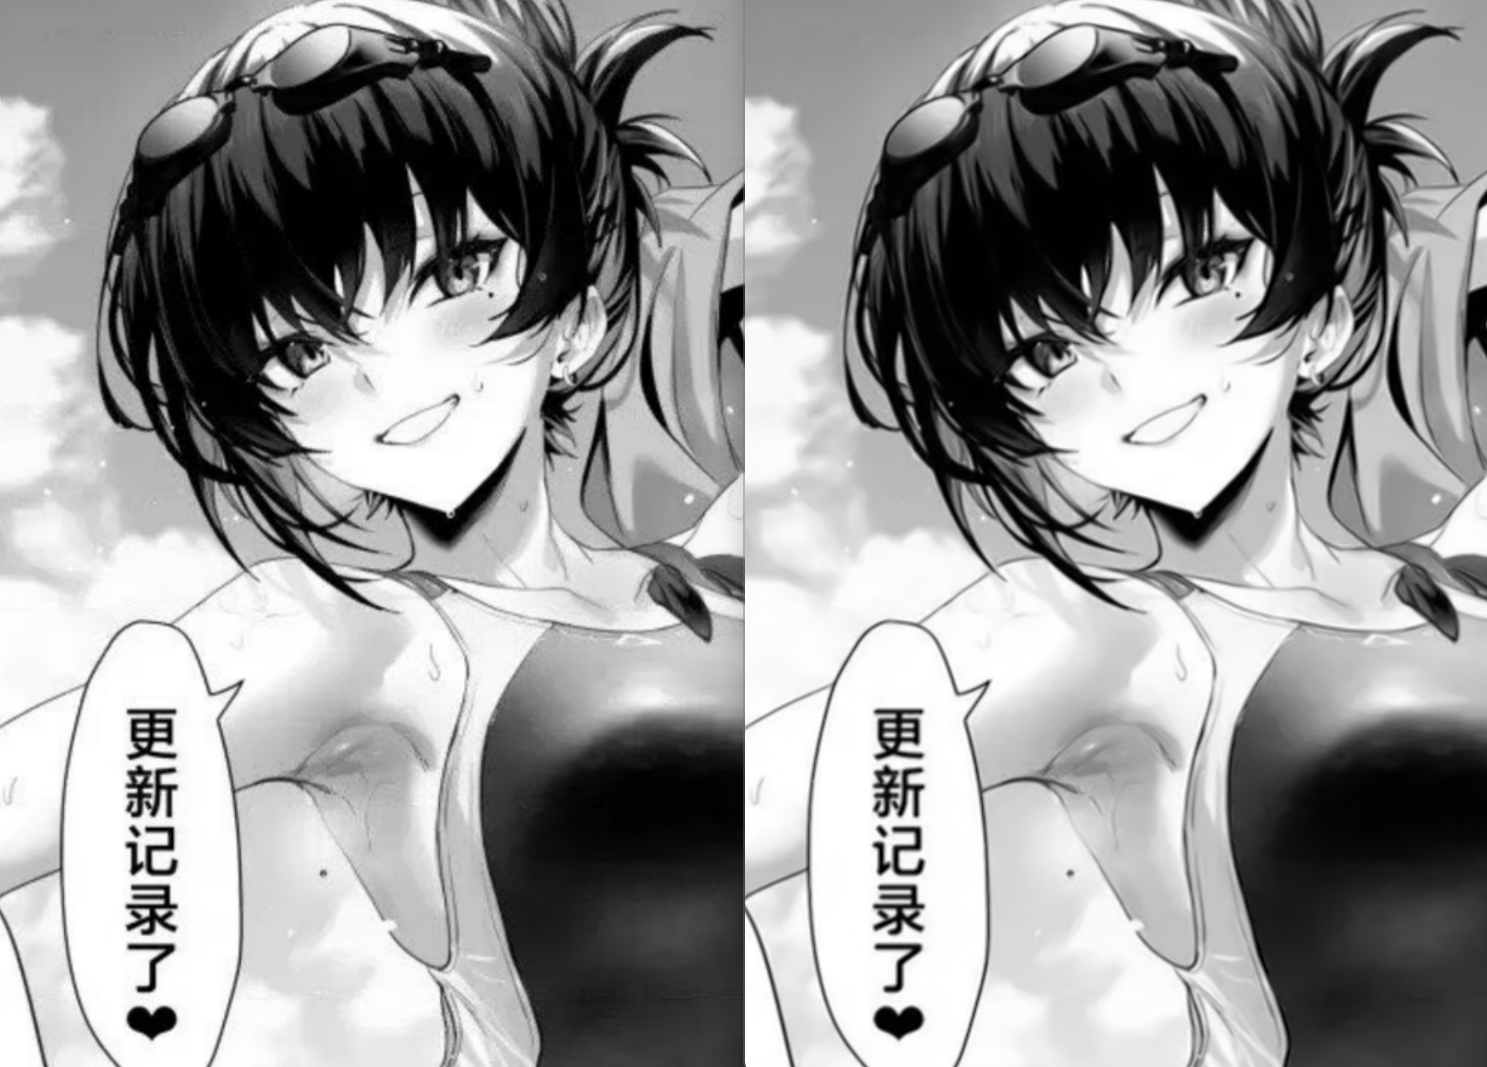
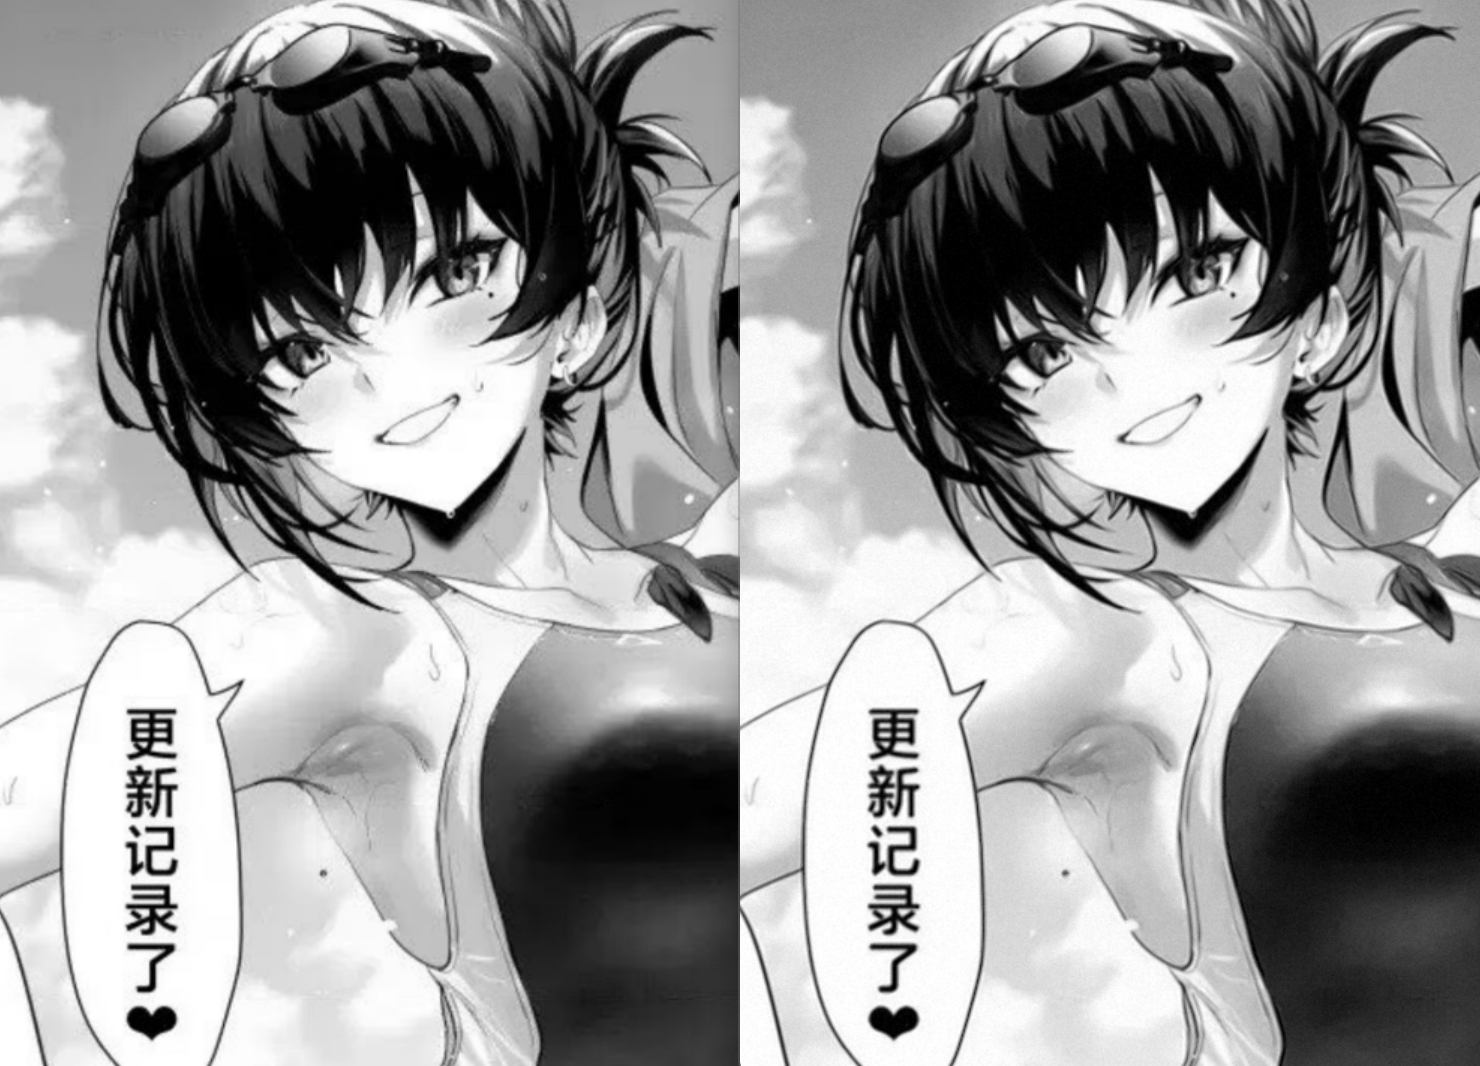
feat: 新增 --grain 胶片颗粒滤镜
- 移植 VapourSynth-AddGrain，支持噪声方差 0~100
- 更新 README 示例与参数说明，推荐在修复流程末尾添加
- 更新 build.py 源文件列表并替换预览图

diff --git a/src/filters/grain.cpp b/src/filters/grain.cpp
@@ -1,0 +1,97 @@
+#include "grain.h"
+
+#include <algorithm>
+#include <cmath>
+#include <cstring>
+
+// Scalar port of HolyWu VapourSynth-AddGrain (`git clone ...AddGrain`, GPLv3;
+// original by Tom Barry / Firesledge / LaTo INV., VapourSynth port by HolyWu):
+//
+//   fastUniformRandL:  idum = 1664525 * idum + 1013904223          (32-bit)
+//   fastUniformRandF:  bitcast(0x3f800000 | (0x007fffff & idum)) - 1
+//   gaussianRand:      Box-Muller polar, saves the second sample
+//   noise value:       (int8) round(N(0, var)), hcorr/vcorr = 0 (defaults)
+//   output:            clamp(src + noise, 0, 255)
+//
+// The plugin computes the noise field once and rolls a per-frame window into
+// it (video-oriented); a still image only ever uses the same pixel grid, so
+// the port draws the field directly at stride = width.
+
+namespace {
+
+// Reference fastUniformRandL as unsigned 32-bit (explicit wrap, portable).
+inline uint32_t lcgNext(uint32_t &u)
+{
+    return u = 1664525u * u + 1013904223u;
+}
+
+// Reference fastUniformRandF: mantissa from the LCG, exponent 127 -> [0,1).
+inline float u01(uint32_t &u)
+{
+    const uint32_t bits = 0x3f800000u | (0x007fffffu & lcgNext(u));
+    float f;
+    std::memcpy(&f, &bits, sizeof f);
+    return f - 1.0f;
+}
+
+// Reference gaussianRand (mean 0; the variance scaling is applied by the
+// caller, mirroring gaussianRand's `gaussian* sqrt(variance)`): polar
+// Box-Muller; the second sample is kept for the next call (isan/gset state).
+struct GaussianState {
+    uint32_t u;
+    bool iset = false;
+    float gset = 0.0f;
+
+    float next()
+    {
+        if (iset) {
+            iset = false;
+            return gset;
+        }
+        float v1, v2, rsq;
+        do {
+            v1 = 2.0f * u01(u) - 1.0f;
+            v2 = 2.0f * u01(u) - 1.0f;
+            rsq = v1 * v1 + v2 * v2;
+        } while (rsq >= 1.0f || rsq == 0.0f);
+        const float fac = std::sqrt(-2.0f * std::log(rsq) / rsq);
+        gset = v1 * fac;
+        iset = true;
+        return v2 * fac;
+    }
+};
+
+// FNV-1a over the luma, used as the deterministic per-image seed.
+inline uint32_t fnv1a(const u8 *p, std::size_t n)
+{
+    uint32_t h = 2166136261u;
+    for (std::size_t i = 0; i < n; i++) {
+        h ^= p[i];
+        h *= 16777619u;
+    }
+    return h;
+}
+
+} // namespace
+
+void grain(const u8 *src, int w, int h, float var, u8 *dst)
+{
+    if (var <= 0.0f) {
+        if (dst != src)
+            std::memcpy(dst, src, std::size_t(w) * h);
+        return;
+    }
+
+    GaussianState g;
+    g.u = fnv1a(src, std::size_t(w) * h);
+
+    for (int y = 0; y < h; y++) {
+        for (int x = 0; x < w; x++) {
+            const float r = g.next() * std::sqrt(var);         // N(0, var)
+            int d = int(std::round(r));                        // (int8) in the reference
+            d = std::max(-128, std::min(127, d));
+            const int v = int(src[std::size_t(y) * w + x]) + d;
+            dst[std::size_t(y) * w + x] = u8(std::max(0, std::min(255, v)));
+        }
+    }
+}

diff --git a/src/main.cpp b/src/main.cpp
@@ -24,6 +24,7 @@
  *   options: --aa [1|2] (2 = strong AA, EEDI2 + 3/2 supersample + SangNom),
  *            --mthresh N --lthresh N --vthresh N --maxd N --nt N --field N
  *            --repair N (0 disables Repair), --deband [range=,y=,cbcr=],
+ *            --grain [h] (AddGrain noise variance, default 10),
  *            --quality N (JPEG output quality, 1..100, default 80),
  *            -v / --version, -h / --help
  *
@@ -80,6 +81,9 @@ static void printHelp()
         "                        names: range (0..255), y (0..511), cbcr\n"
         "                        (0..511), defaults 24,72,32; omitted names\n"
         "                        keep their defaults, any order\n"
+        "  --grain [<h>]         film grain (AddGrain); <h> is the noise\n"
+        "                        variance std=h^0.5 (default 10), e.g. 20~100 for\n"
+        "                        visible grain, 0 disables; seed derived from image\n"
         "  --quality <q>       JPEG output quality 1..100 (default 80);\n"
         "                        only affects .jpg/.jpeg outputs\n"
         "  -v, --version        print version and exit\n"
@@ -148,6 +152,16 @@ int main(int argc, char **argv)
             steps.push_back(Step::resize(rw, rh));
         }
         else if (a == "--dehalo") steps.push_back(Step::dehalo());
+        else if (a == "--grain") {
+            float gv = 10.0f;
+            if (i + 1 < argc && argv[i + 1][0] != '-')
+                gv = static_cast<float>(std::atof(argv[++i]));
+            if (gv < 0.0f) {
+                std::fprintf(stderr, "error: --grain variance must be >= 0\n");
+                return 1;
+            }
+            steps.push_back(Step::grain(gv));
+        }
         else if (a == "--deband") {
             int r = 24, y = 72, c = 32;
             if (i + 1 < argc && argv[i + 1][0] != '-')

diff --git a/src/chain.h b/src/chain.h
@@ -9,11 +9,11 @@ struct Eedi2Params;
 
 // Processing steps, applied to the luma plane in command-line order. The
 // static factories keep the CLI parsing independent of the field layout.
-enum class StepKind { AA, Denoise, Resize, Dehalo, Sharpen, Deband };
+enum class StepKind { AA, Denoise, Resize, Dehalo, Sharpen, Deband, Grain };
 
 struct Step {
     StepKind kind;
-    float h = 0.0f;       // NLMeans strength for Denoise steps
+    float h = 0.0f;       // NLMeans strength (Denoise) or grain variance (Grain)
     int rw = -1, rh = -1; // Resize targets (-1: keep proportional)
     int dbr = 24, dby = 72, dbc = 32; // Deband range / luma / chroma thresholds
     int aaLevel = 2;      // 2: EEDI2 + SangNom strong AA (default); 1: EEDI2 chain
@@ -24,6 +24,7 @@ struct Step {
     static Step resize(int w, int h) { return {StepKind::Resize, 0.0f, w, h}; }
     static Step dehalo() { return {StepKind::Dehalo}; }
     static Step deband(int range, int y, int cbcr) { return {StepKind::Deband, 0.0f, -1, -1, range, y, cbcr}; }
+    static Step grain(float h) { return {StepKind::Grain, h}; }
 };
 
 // Parse "--resize WxH | Wx | xH"; a missing side (-1) is kept proportional.

diff --git a/src/filters/grain.h b/src/filters/grain.h
@@ -1,0 +1,19 @@
+#pragma once
+
+#include "common.h"
+
+// Film-grain noise on a gray8 plane (w*h -> w*h).
+//
+// Port of HolyWu's VapourSynth-AddGrain (`core.grain.Add`, id
+// com.holywu.addgrain): every output pixel gets an independent sample from
+// N(0, var) (the reference `var` noise variance, gaussianRand mean=0), the
+// drawing rounded to an int8 delta and added to the source with clamp to
+// [0,255]. The reference's hcorr/vcorr default to 0 (no horizontal/vertical
+// correlation), so the per-pixel noise is an uncorrelated draw; `constant`
+// is false (single still frame). var <= 0 passes the input through.
+//
+// The RNG is the reference's 32-bit LCG + Box-Muller (fastUniformRand);
+// unlike the plugin (which seeds from the wall clock when seed < 0) the seed
+// is derived from the luma content, so the same image always gets the same
+// grain and output stays reproducible.
+void grain(const u8 *src, int w, int h, float var, u8 *dst);

diff --git a/src/chain.cpp b/src/chain.cpp
@@ -4,6 +4,7 @@
 #include "filters/deband.h"
 #include "filters/dehalo.h"
 #include "filters/eedi2.h"
+#include "filters/grain.h"
 #include "filters/nlmeans.h"
 #include "filters/repair.h"
 #include "filters/resample.h"
@@ -272,6 +273,13 @@ void runSteps(const Eedi2Params &p, std::vector<u8> &plane, int &w, int &h,
             cas(plane.data(), w, h, st.h, out.data());
             plane = std::move(out);
             std::snprintf(name, sizeof name, "CAS s=%g", st.h);
+            break;
+        }
+        case StepKind::Grain: {
+            std::vector<u8> out(std::size_t(w) * h);
+            grain(plane.data(), w, h, st.h, out.data());
+            plane = std::move(out);
+            std::snprintf(name, sizeof name, "Grain var=%g", st.h);
             break;
         }
         case StepKind::Deband: {

diff --git a/build.py b/build.py
@@ -23,7 +23,7 @@ SOURCES = [
     "src/main.cpp", "src/chain.cpp", "src/color.cpp", "src/imageio.cpp",
     "src/filters/eedi2.cpp", "src/filters/resample.cpp", "src/filters/repair.cpp",
     "src/filters/nlmeans.cpp", "src/filters/dehalo.cpp", "src/filters/cas.cpp",
-    "src/filters/deband.cpp", "src/filters/sangnom.cpp",
+    "src/filters/deband.cpp", "src/filters/sangnom.cpp", "src/filters/grain.cpp",
 ]
 COMMON = ["-O2", "-std=c++17", "-Wall", "-Wextra",
           "-Wno-missing-field-initializers", "-Isrc"]

diff --git a/README_zh.md b/README_zh.md
@@ -11,7 +11,7 @@
 **上图所用参数：**
 
 ```bash
-imagepolish -i input.png --denoise --deband range=12,y=60,cbcr=24 --deband range=24,y=40,cbcr=16 --aa 2 --sharpen --dehalo --denoise
+imagepolish -i input.png -denoise --deband range=12,y=60,cbcr=24 --deband range=24,y=40,cbcr=16 --aa 2 --sharpen 0.9 --dehalo --grain 10
 ```
 
 
@@ -66,6 +66,7 @@ imagepolish -i a.png -i b.png -i c.png --deband y=40
 | `--aa [N]` | 去锯齿，`N` 为强度（1、2，默认2） |
 | `--sharpen [s]` | CAS 锐化，`s` 为 sharpness（`0~1`，默认 `0.7`） |
 | `--dehalo` | 去光晕，参数固定 |
+| `--grain [h]` | 胶片颗粒，`h` 为噪声方差（`0~100`，默认 `10`） |
 
 示例：
 
@@ -87,6 +88,8 @@ imagepolish -i in.png --resize 1920x --aa --deband --denoise 5 -o out.png
   ```bash
   imagepolish -i in.png --deband range=12,y=60,cbcr=24 --deband range=24,y=40,cbcr=16
   ```
+
+- 强烈推荐在最后面加 `--grain`，有一层噪点可以更加保护细节，减少修复后的涂抹感
 
 - 如果你不懂具体滤镜的用法，也可以使用下面这个万能参数：
 
@@ -134,6 +137,7 @@ python build.py --all    # 全平台 -> out/imagepolish-<版本>-<目标平台>[
 - **FineDehalo**（havsfunc `haf.FineDehalo` 的移植，参数固定为 havsfunc 默认： DeHalo_alpha rx=2/ry=2/darkstr=brightstr=1/lowsens=highsens=50/ss=1.5， FineDehalo thmi=80/thma=128/thlimi=50/thlima=100、excl=True）：DeHalo_alpha 去晕（Bicubic(a=1/3,b=1/3) 缩放的模糊晕层与其原图的差、1.5× Lanczos 上行采样 min/max 钳制再回落、亮度域混合）→ Prewitt 边缘 + 两档亮度阈值 （thmi/thma 主边缘、thlimi/thlima 弱边缘）、矩形/菱形形态学扩张-腐蚀、 3×3 盒卷积构造「排除区」→ `MaskedMerge` 只在掩码 255 处换成去晕结果。 Expr 步骤按参考实现的逐运算 float + round-half-even(rint) 语义复刻。
 - **CAS**（HolyWu / VapourSynth-CAS 的移植，即 AMD FidelityFX CAS）：3×3 软 min/max 导出对比度自适应振幅 `amp = sqrt(clamp(min(mn, limit-mx)/mx))`，权重 `w = amp·(-1/lerp(16,5,s))`，输出十字滤波 `((b+d+f+h)·w+e)/(1+4w)`。
 - **Deband**（neo_f3kdb `Deband(range,y,cb,cr,grainy=0,grainc=0, output_depth=16)` 的移植，即默认 sample_mode=2、blur_first=true、 random_algo_ref=UNIFORM、无 grain 无 dither）：8 位样本上采样进 16 位内部域（`<<8`，阈值按参考 `scale=false` 取 `y<<2`）；每像素由 LUT 中的随机距离 `ref1/ref2 ∈ [0, cur_range]`（`cur_range` 取 `range` 与四边距离的最小值，随机序列严格复刻参考 `init_frame_luts`：每像素按 Y/ref1/ref2/Cb/Cr 顺序推进同一个 LCG 种子）取 4 个对角参考点，用参考 SSE 例程的 `avg_4`（第一对平均后饱和减 1，再与第二对平均）求 16 位均值；仅当 `|avg - px| >= threshold` 时保留原值，否则用均值，最后 `>>8` 回到 8 位。与其它步骤一致，只作用于亮度平面（`cb/cr` 参数为兼容参考调用而保留）。
+- **Grain**（VapourSynth-AddGrain 的移植，即 `core.grain.Add`；原始算法为 Tom Barry / Firesledge 的 AddGrain，VapourSynth 移植由 HolyWu 完成）：32 位 LCG（`idum = 1664525·idum + 1013904223`）+ Box-Muller 极坐标法（第二个样本存入 `gset` 状态留待下次调用）生成标准正态样本，乘 `√var` 得 `N(0, var)`；逐像素独立取噪（参考 `hcorr/vcorr` 默认 0，即无水平/垂直相关性平滑），`round` 成 int8 增量后加到原像素并整体钳制 `[0,255]`。与参考的差异：参考默认以系统时间为种子、并为多帧视频预生成 2 倍高噪声场再滚动取窗；本工具以图像内容的 FNV-1a 哈希为种子直接逐像素绘制（静态单帧等效），使同一输入结果可复现。`var <= 0` 直通。
 
 
 
@@ -151,6 +155,7 @@ python build.py --all    # 全平台 -> out/imagepolish-<版本>-<目标平台>[
 | FineDehalo（8bit） | 与 havsfunc（全部默认参数）直接比 | 结构与掩码一致；光晕区像素差 ≤24（内部 resize 内核的浮点细节差异） |
 | CAS（8bit） | 与 cas.dll（sharpness=0.7）直接比 | 99.3% 逐字节一致，其余像素差 ≤2（插件 AVX2/AVX512 中间顺序重排所致） |
 | Deband（8bit） | 与 neo-f3kdb.dll r7（多组 range/y，输出 GRAY16）的 >>8 直接比 | 100% 逐像素一致 |
+| Grain（8bit） | 与 addgrain.dll（`core.grain.Add`，var=40）噪声统计对比 | 标准差/均值一致（差 <0.1%；种子不同，逐像素不可比） |
 
 其中 Deband 的对比覆盖了 480×320、386×277、300×220、333×241 等多尺寸与多组参数（含 `y=0` 边界，此时输出应与原图一致）；整条链的水平与此一致。
 

diff --git a/README.md b/README.md
@@ -11,7 +11,7 @@
 **Parameters used for the image above:**
 
 ```bash
-imagepolish -i input.png --denoise --deband range=12,y=60,cbcr=24 --deband range=24,y=40,cbcr=16 --aa 2 --sharpen --dehalo --denoise
+imagepolish -i input.png --denoise --deband range=12,y=60,cbcr=24 --deband range=24,y=40,cbcr=16 --aa 2 --sharpen 0.9 --dehalo --grain 10
 ```
 
 
@@ -66,6 +66,7 @@ Without `-o`, the output is `<input basename>_output.<same extension>` (e.g. `in
 | `--aa [N]` | Anti-aliasing; `N` is the strength (`1`, `2`, default `2`) |
 | `--sharpen [s]` | CAS sharpen; `s` is sharpness (`0~1`, default `0.7`) |
 | `--dehalo` | Dehalo, fixed parameters |
+| `--grain [h]` | Film grain; `h` is the noise variance (`0~100`, default `10`) |
 
 Examples:
 
@@ -87,6 +88,8 @@ imagepolish -i in.png --resize 1920x --aa --deband --denoise 5 -o out.png
   ```bash
   imagepolish -i in.png --deband range=12,y=60,cbcr=24 --deband range=24,y=40,cbcr=16
   ```
+
+- Adding `--grain` at the very end is highly recommended: a layer of noise preserves detail and reduces the smeared look left behind by restoration.
 
 - If you are not sure which filters to use, this one-liner covers everything:
 
@@ -132,6 +135,7 @@ Only the BT.601 full-range luma is processed; chroma never goes through lossy 8-
 - **FineDehalo** (port of havsfunc `haf.FineDehalo`, havsfunc defaults: DeHalo_alpha rx=2/ry=2, darkstr=brightstr=1, lowsens=highsens=50, ss=1.5; FineDehalo thmi=80/thma=128, thlimi=50/thlima=100, excl=True): DeHalo_alpha dehaloring (Bicubic(1/3,1/3) blurred halo layer minus source, 1.5× Lanczos upsampled min/max clamped, blended in luma) → Prewitt edges + two luma thresholds (thmi/thma main, thlimi/thlima weak) + rect/diamond morphology + 3×3 box "exclusion mask" → `MaskedMerge` replaces only mask-255 pixels. Expr steps reproduce the reference's per-op float + round-half-even (rint) semantics.
 - **CAS** (port of HolyWu / VapourSynth-CAS, i.e. AMD FidelityFX CAS): 3×3 soft min/max drives contrast-adaptive amplitude `amp = sqrt(clamp(min(mn, limit-mx)/mx))`, weight `w = amp·(-1/lerp(16,5,s))`, cross filter `((b+d+f+h)·w+e)/(1+4w)`.
 - **Deband** (port of neo_f3kdb `Deband(range,y,cb,cr,grainy=0,grainc=0, output_depth=16)`, i.e. default sample_mode=2, blur_first=true, random_algo_ref=UNIFORM, no grain/dither): 8-bit samples are upsampled to the 16-bit internal domain (`<<8`, thresholds `y<<2` with the reference's `scale=false`); per pixel, random distances `ref1/ref2 ∈ [0, cur_range]` (borders clamped, RNG sequence reproducing `init_frame_luts` exactly: one LCG seed advanced per pixel in Y/ref1/ref2/Cb/Cr order) pick 4 diagonal references, averaged by the reference's SSE `avg_4` (first pair minus 1, then averaged with the second); the pixel is kept only if `|avg - px| >= threshold`, otherwise `avg` replaces it; finally `>>8` back to 8-bit. Like every other filter it acts on the luma plane only (`cb/cr` accepted for reference compatibility).
+- **Grain** (port of VapourSynth-AddGrain, i.e. `core.grain.Add`; original AddGrain by Tom Barry / Firesledge, VapourSynth port by HolyWu): a 32-bit LCG (`idum = 1664525·idum + 1013904223`) and polar Box-Muller (the second sample cached in the `gset` state for the next call) produce a standard normal, scaled by `sqrt(var)` to `N(0, var)`; each pixel draws independently (the reference's `hcorr/vcorr` default to 0 = no horizontal/vertical correlation), and the drawn value is rounded to an int8 delta, added to the source and finally clamped to `[0,255]`. Deviation from the reference: the plugin seeds from the wall clock by default and pre-generates a 2× tall noise field into which it rolls a per-frame window; this port instead derives the seed from an FNV-1a hash of the image and draws the field directly per pixel (equivalent for a single still frame), so the same input is reproducible. `var <= 0` passes through.
 
 ### Verification
 
@@ -147,6 +151,7 @@ Pixel-compared against a real VapourSynth installation (vapoursynth pip package 
 | FineDehalo (8bit) | havsfunc (all defaults) directly | masks match; halo-region pixels within 24 (float detail in internal resize kernels) |
 | CAS (8bit) | cas.dll (sharpness=0.7) directly | 99.3% byte-identical, rest within 2 (plugin AVX2/AVX512 reassociation) |
 | Deband (8bit) | neo-f3kdb.dll r7 (several range/y, GRAY16 output) >>8 | 100% pixel-identical |
+| Grain (8bit) | addgrain.dll (`core.grain.Add`, var=40) noise statistics | mean/std match within 0.1% (seeds differ, so pixels are not comparable) |
 
 Deband was verified at 480×320, 386×277, 300×220 and 333×241 with several parameter sets (including `y=0`, where the output must equal the input); the rest of the chain matches at the same level.
 
